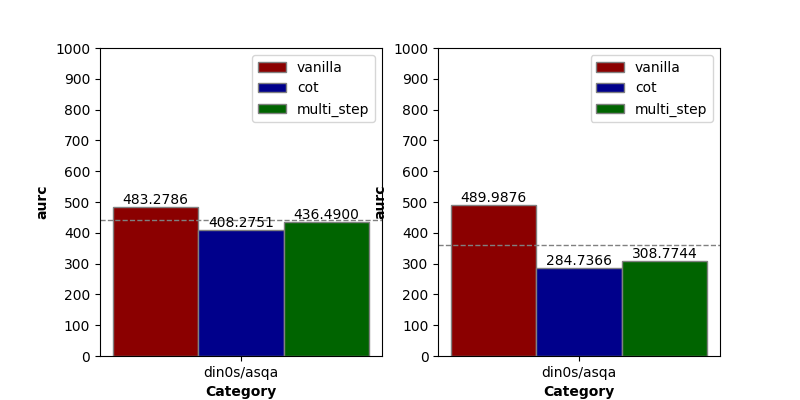
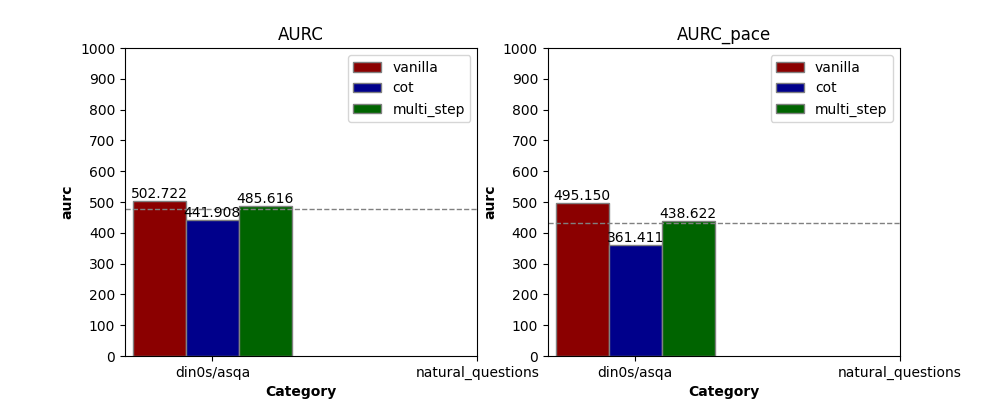
updatre

diff --git a/PACE/evaluate_confidence_score.py b/PACE/evaluate_confidence_score.py
@@ -266,51 +266,46 @@ def count_down(path):
     else:
         return 0
 
-def Savefig(File_name):
+def Savefig(File_name,api_model,dataset=["din0s/asqa"],sim_models="Cos_sim",acc_model="rougeL",strategies=["vanilla","cot","multi_step"]):
     data_path=f"response_result/Evaluate_Result_{File_name}.json"
-    dataset=["din0s/asqa"]
-    acc_model="rougeL"
-    sim_models=["Cos_sim"]
-    stretagy_name_for_all=["vanilla","cot","multi_step"]
-    for sim_model in sim_models:
-        ece_for_all,ece_pace_for_all=[],[]
-        auroc_for_all,auroc_pace_for_all=[],[]
-        aurc_for_all,aurc_pace_for_all=[],[]
-        for j in stretagy_name_for_all:
-            ece,ece_pace=[],[]
-            auroc,auroc_pac=[],[]
-            aurc,aurc_pac=[],[]
-            for i in dataset:
-                data_eval=load_eval_data(i,acc_model,data_path,j,sim_model)
-                if data_eval is not None:
-                    ece.append(data_eval['ece'])
-                    ece_pace.append(data_eval['ece_pace'])
-                    auroc.append(data_eval['auroc'])
-                    auroc_pac.append(data_eval['auroc_pace'])
-                    aurc.append(data_eval['aurc'])
-                    aurc_pac.append(data_eval['aurc_pace'])
+    ece_for_all,ece_pace_for_all=[],[]
+    auroc_for_all,auroc_pace_for_all=[],[]
+    aurc_for_all,aurc_pace_for_all=[],[]
+    for j in strategies:
+        ece,ece_pace=[],[]
+        auroc,auroc_pac=[],[]
+        aurc,aurc_pac=[],[]
+        for i in dataset:
+            data_eval=load_eval_data(dataset,acc_model,data_path,j,sim_models,api_model,File_name)
+            if data_eval is not None:
+                ece.append(data_eval['ece'])
+                ece_pace.append(data_eval['ece_pace'])
+                auroc.append(data_eval['auroc'])
+                auroc_pac.append(data_eval['auroc_pace'])
+                aurc.append(data_eval['aurc'])
+                aurc_pac.append(data_eval['aurc_pace'])
 
-            ece_for_all.append(ece)
-            ece_pace_for_all.append(ece_pace)
-            auroc_for_all.append(auroc)
-            auroc_pace_for_all.append(auroc_pac)
-            aurc_for_all.append(aurc)
-            aurc_pace_for_all.append(aurc_pac)
+        ece_for_all.append(ece)
+        ece_pace_for_all.append(ece_pace)
+        auroc_for_all.append(auroc)
+        auroc_pace_for_all.append(auroc_pac)
+        aurc_for_all.append(aurc)
+        aurc_pace_for_all.append(aurc_pac)
 
-        if ece_for_all and auroc_for_all and aurc_for_all:
-            ## vector_list,label,catagoriers_list,x_label,y_label,title
-            ece_result=[[ece_for_all,stretagy_name_for_all,dataset,'Category','ece',f"ECE",(0,1)],[ece_pace_for_all,stretagy_name_for_all,dataset,'Category','ece',f"ECE_pace",(0,1)]]
-            auroc_result=[[auroc_for_all,stretagy_name_for_all,dataset,'Category','auroc',f"AUROC",(0,1)],[auroc_pace_for_all,stretagy_name_for_all,dataset,'Category','auroc',f"AUROC_pace",(0,1)]]
-            aurc_result=[[aurc_for_all,stretagy_name_for_all,dataset,'Category','aurc',f"AURC",(0,1000)],[aurc_pace_for_all,stretagy_name_for_all,dataset,'Category','aurc',f"AURC_pace",(0,1000)]]
-            print("*"*100)
-            print(f"{sim_model} {j} {i}")
-            print(ece_result)
-            print(auroc_result)
-            print(aurc_result)
-            print("*"*100)
-            show_bar(ece_result,f"ECE_RESULT_{acc_model}_{sim_model}_{File_name}")
-            show_bar(auroc_result,f"AUROC_result_{acc_model}_{sim_model}_{File_name}")
-            show_bar(aurc_result,f"AURC_result_{acc_model}_{sim_model}_{File_name}")
+    if ece_for_all and auroc_for_all and aurc_for_all:
+        ## vector_list,label,catagoriers_list,x_label,y_label,title
+        ece_result=[[ece_for_all,strategies,dataset,'Category','ece',f"ECE",(0,1)],[ece_pace_for_all,strategies,dataset,'Category','ece',f"ECE_pace",(0,1)]]
+        auroc_result=[[auroc_for_all,strategies,dataset,'Category','auroc',f"AUROC",(0,1)],[auroc_pace_for_all,strategies,dataset,'Category','auroc',f"AUROC_pace",(0,1)]]
+        aurc_result=[[aurc_for_all,strategies,dataset,'Category','aurc',f"AURC",(0,1000)],[aurc_pace_for_all,strategies,dataset,'Category','aurc',f"AURC_pace",(0,1000)]]
+        print("*"*100)
+        print(f"{sim_model} {j} {i}")
+        print(ece_result)
+        print(auroc_result)
+        print(aurc_result)
+        print("*"*100)
+        show_bar(ece_result,f"ECE_RESULT_{api_model}_{acc_model}_{sim_model}_{File_name}")
+        show_bar(auroc_result,f"AUROC_result_{api_model}_{acc_model}_{sim_model}_{File_name}")
+        show_bar(aurc_result,f"AURC_result_{api_model}_{acc_model}_{sim_model}_{File_name}")
 
 if __name__=="__main__":
     activate_time="20240601"

diff --git a/PACE/pipeline.py b/PACE/pipeline.py
@@ -58,31 +58,30 @@ def main():
             key=yaml.safe_load(f)
     # 'natural_questions',
     datasets = ['din0s/asqa']
-    strategies = ['vanilla','multi_step','cot']
-    acc_models = ['rougeL']
+    strategies = ['cot','vanilla','multi_step']
+    acc_model = 'rougeL'
+    sim_models = 'Cos_sim'
 
-    # api_model = 'gpt-3.5-turbo-0125'
+    ## API model
+    api_model = 'gpt-3.5-turbo-0125'
     # api_model = 'gpt-4-turbo'
-    api_model = 'claude-3-5-sonnet-20240620'
+    # api_model = 'claude-3-5-sonnet-20240620'
 
     api_key=key[api_model_key_mapping[api_model]]['api_key']
 
-    sim_models = ['Cos_sim']
     shuffle=False
-    data_count = 200
+    data_count = 100
     train_batch_size = 1
     eval_batch_size = data_count*2 ## No_use
     lambda_value=0.5
     for qa_dataset in datasets:
         for strategy in strategies:
-            for acc_model in acc_models:
-                for sim_model in sim_models:
-                    logger.info(f"Start With {mp.cpu_count()} CPUs :  {qa_dataset} {strategy} {acc_model}")
-                    pipeline(qa_dataset,api_model,tasks,strategy,data_count,train_batch_size,api_key,eval_batch_size,sim_model,acc_model,ans_parser_dict[strategy],shuffle,lambda_value)
+            logger.info(f"Start With {mp.cpu_count()} CPUs :  {qa_dataset} {strategy} {acc_model}")
+            pipeline(qa_dataset,api_model,tasks,strategy,data_count,train_batch_size,api_key,eval_batch_size,sim_models,acc_model,ans_parser_dict[strategy],shuffle,lambda_value)
 
     shuffle_str="shuffle" if shuffle else "No_shuffle"
-    Savefig(f"{activation_time}_{shuffle_str}")
-
+    Savefig(f"{activation_time}_{shuffle_str}",api_model,datasets,sim_models,acc_model,strategies)
+# File_name,api_model,dataset="din0s/asqa",sim_models="Cos_sim",acc_model="rougeL"
 def shell_ver():
     parser = argparse.ArgumentParser(description="Put Parameter in Generating")
     parser.add_argument("--qa_dataset", type=str,default="din0s/asqa",choices=["din0s/asqa","ChilleD/StrategyQA","natural_questions",'gsm8k'], help="QA Dataset Option")

diff --git a/PACE/show_graph.py b/PACE/show_graph.py
@@ -90,12 +90,12 @@ def overall_conf(vec1,vec2,sample_size=500,lambda_x=0.5):
     return [lambda_x*i+(1-lambda_x)*j for i,j in zip(vec1[:sample_size],vec2[:sample_size])]
 
 
-def load_eval_data(dataset_name="",acc_model_name="",datapath="",stretagy="",sim_model=""):
+def load_eval_data(dataset_name="",acc_model_name="",datapath="",stretagy="",sim_model="",api_model="",activation_time=""):
     if os.path.isfile(datapath):
         with open(datapath,'r') as f:
             data=json.load(f)
         for i in data:
-            if i["dataset"]==dataset_name  and i["acc_model"]==acc_model_name and i['Stratagy']==stretagy and i['sim_model']==sim_model:
+            if i["dataset"]==dataset_name  and i["acc_model"]==acc_model_name and i['Stratagy']==stretagy and i['sim_model']==sim_model and i['api_model']==api_model:
                 return i
     else:
         print(f"{datapath} Do not Exists")
